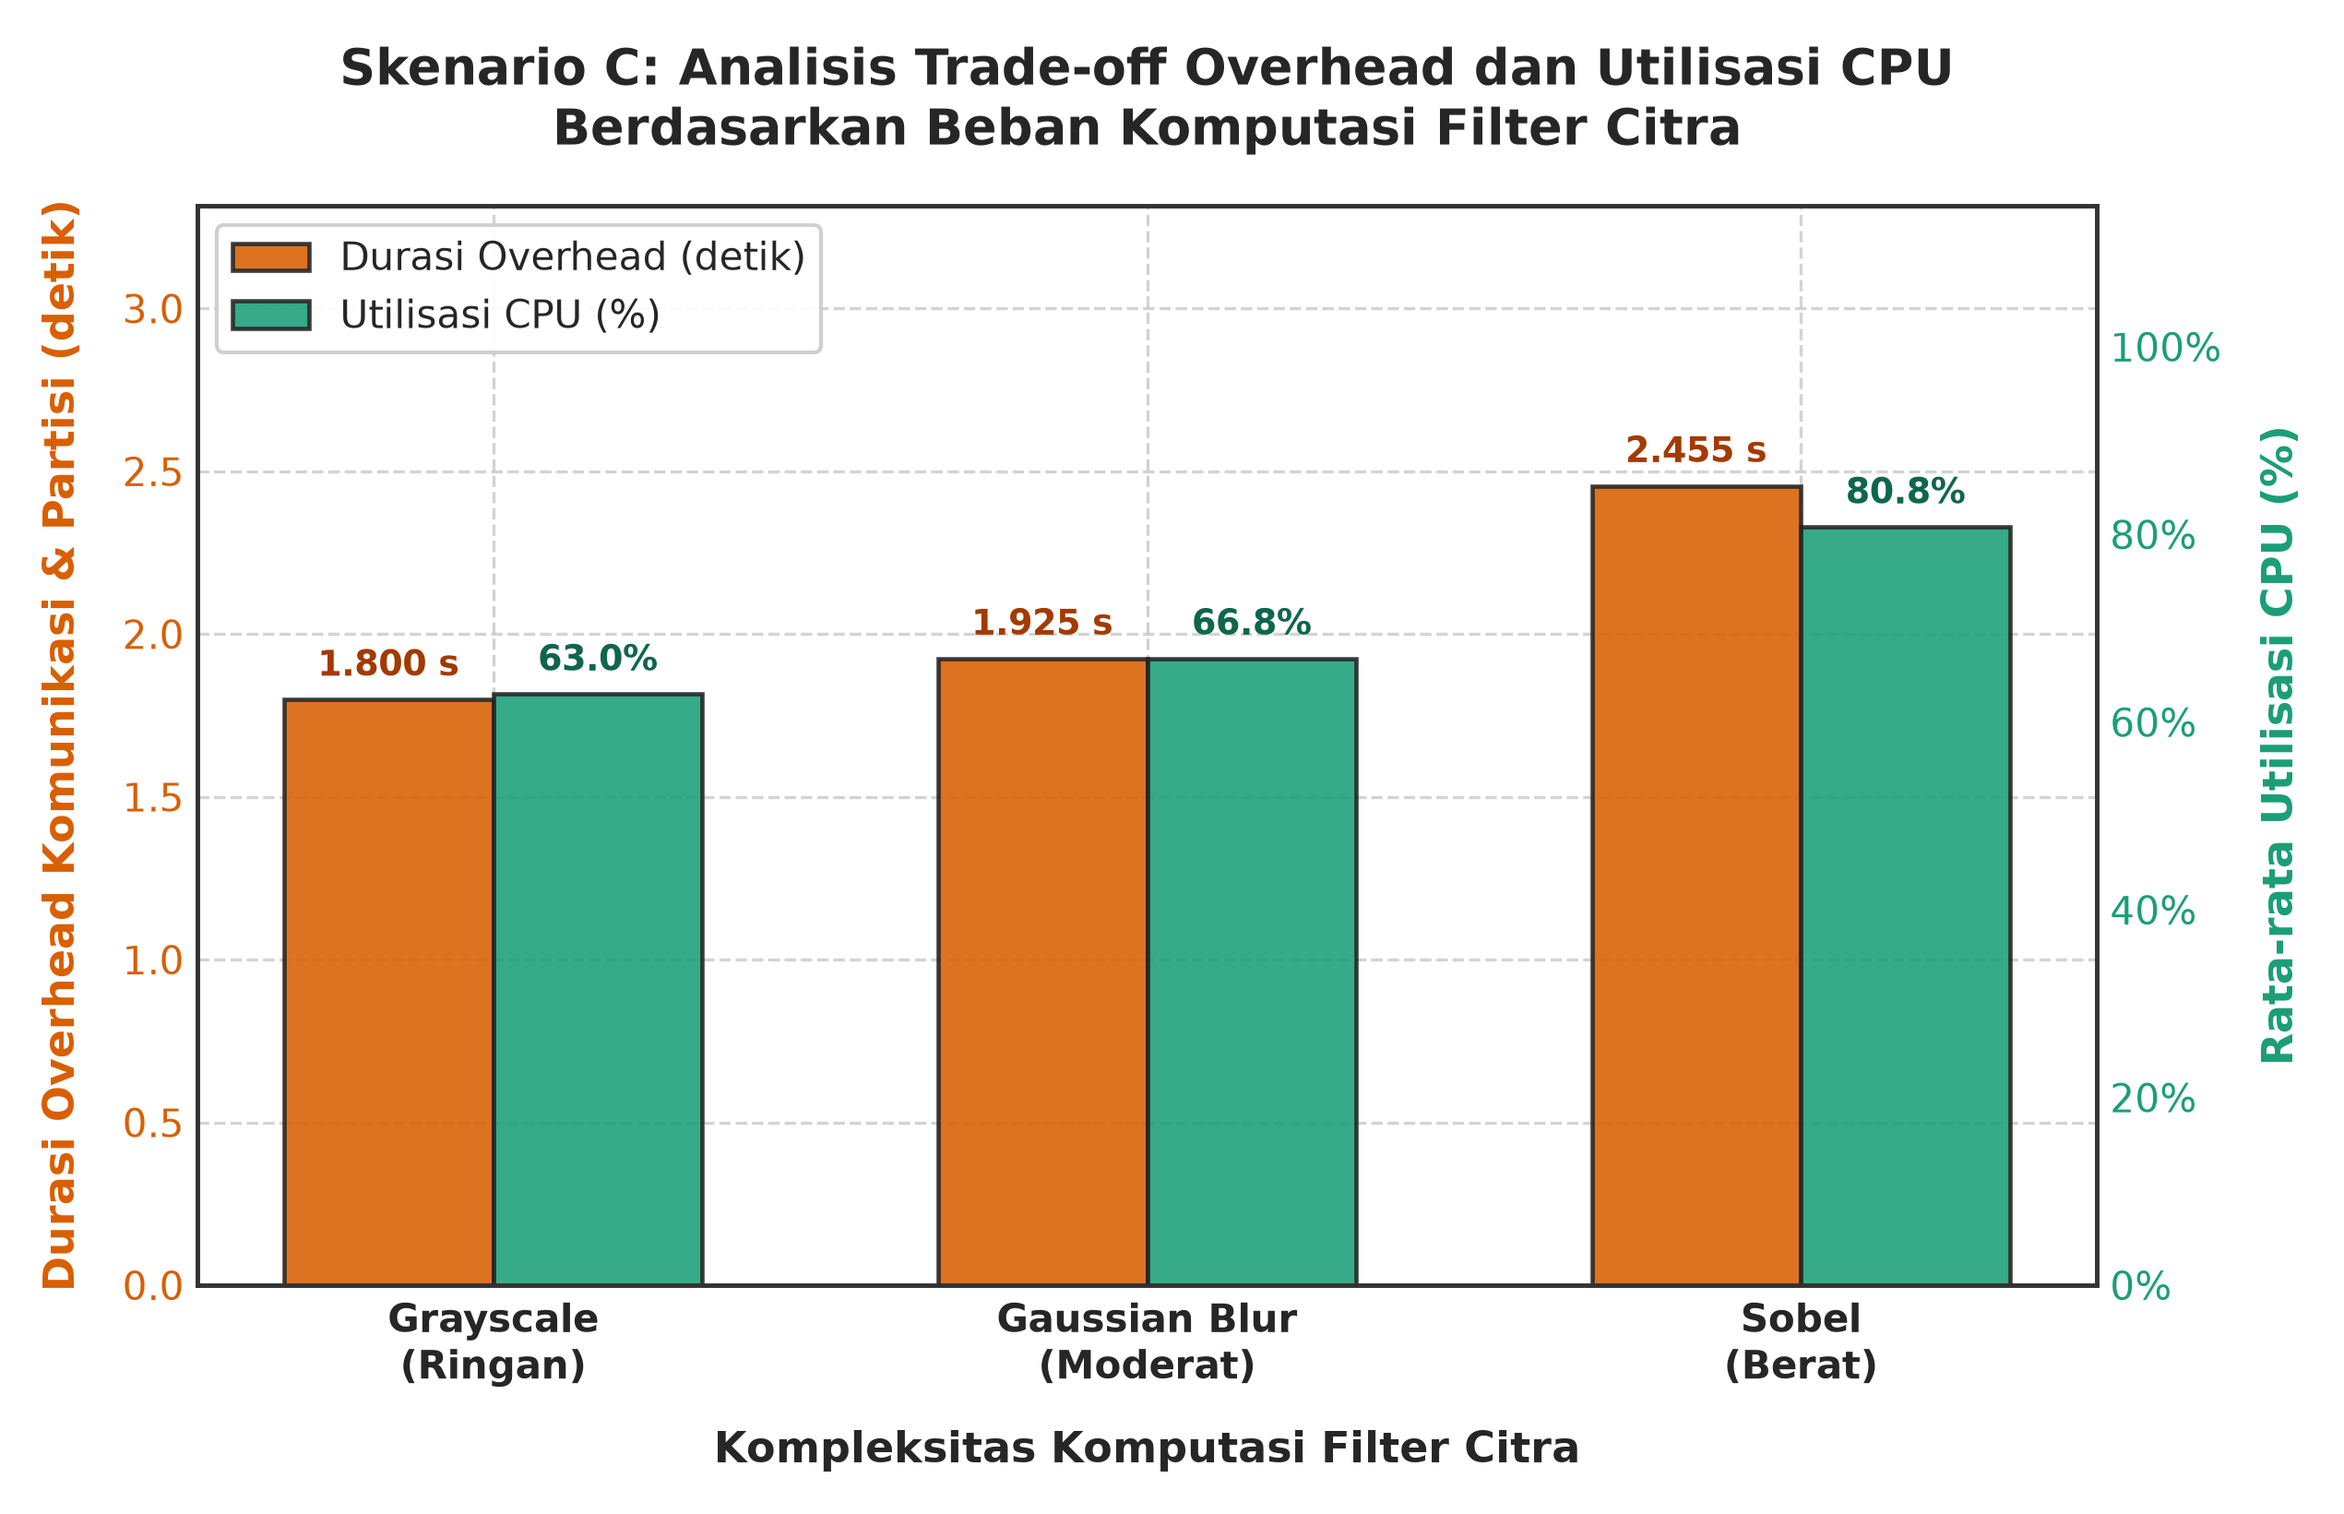
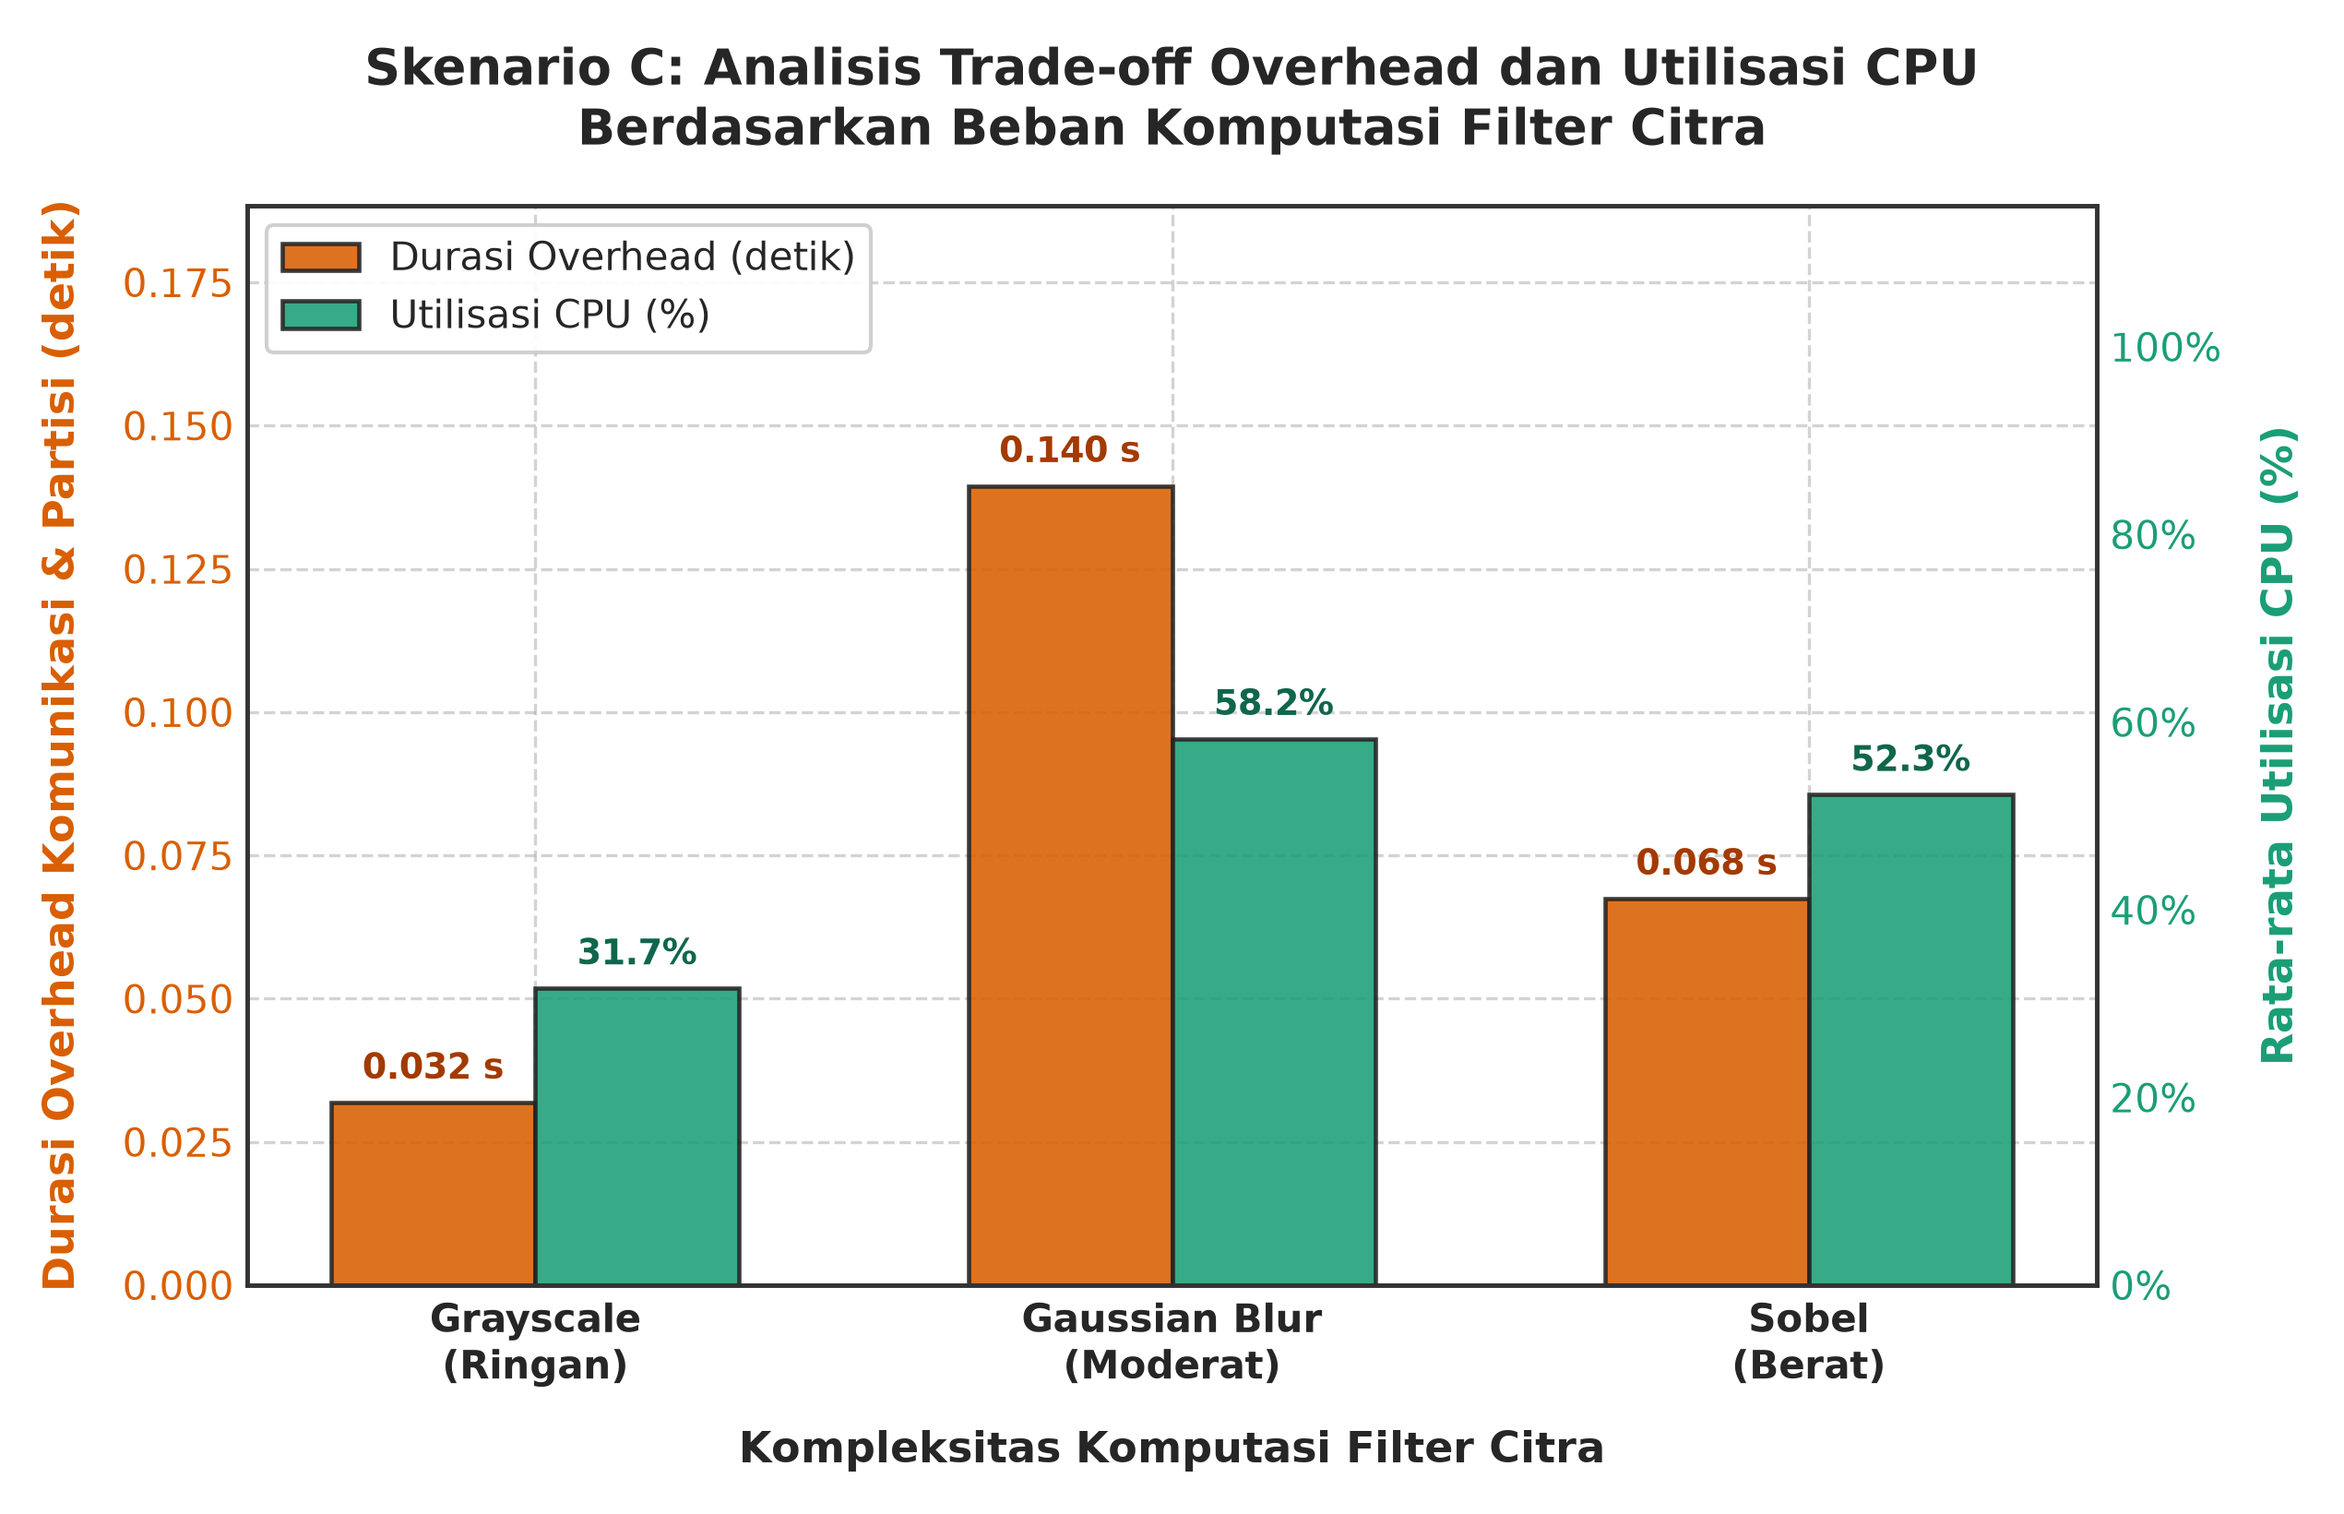
feat(benchmark): optimasi pre-warmed pool dan pembaruan kurva Amdahl Skenario B

diff --git a/run_benchmark.py b/run_benchmark.py
@@ -10,6 +10,7 @@ import os
 import sys
 import time
 import argparse
+import multiprocessing
 import cv2
 import numpy as np
 import pandas as pd
@@ -87,12 +88,13 @@ def run_single_experiment(
     filter_info: dict,
     p_workers: int,
     t_serial_cached: float = None,
-    res_serial_cached: np.ndarray = None
+    res_serial_cached: np.ndarray = None,
+    existing_pool: multiprocessing.Pool = None
 ) -> dict:
     """
     Menjalankan 1 perlakuan pengujian eksperimen terkontrol:
     1. Mengukur Serial Baseline (jika belum ada di cache)
-    2. Menjalankan Paralel dengan pemantauan CPU latar belakang
+    2. Menjalankan Paralel dengan pemantauan CPU latar belakang (mendukung pre-warmed pool)
     3. Memvalidasi keidentikan bit-per-bit hasil
     4. Menghitung metrik performa (Speedup, Efisiensi, Overhead)
     """
@@ -135,7 +137,8 @@ def run_single_experiment(
         image=image,
         filter_func=filter_func,
         p_processes=p_workers,
-        kernel_radius=k_radius
+        kernel_radius=k_radius,
+        existing_pool=existing_pool
     )
     cpu_stats = cpu_mon.stop()
 
@@ -189,47 +192,51 @@ def execute_full_benchmark(quick_mode: bool = False) -> pd.DataFrame:
     print(">>> MENJALANKAN SKENARIO A: PENGARUH RESOLUSI CITRA (P = 4 Inti Pekerja)")
     print("-"*80)
 
-    for res in resolutions_a:
-        img_path = dataset_paths[res]
-        print(f"\n[+] Memuat citra resolusi {res}x{res} piksel dari disk...")
-        img_rgb = load_image_rgb(img_path)
+    # Inisialisasi pool 4 worker sekali di awal (warm pool)
+    with multiprocessing.Pool(processes=4) as pool_4:
+        _ = pool_4.map(abs, [1, 2, 3, 4])  # Warmup worker
+        for res in resolutions_a:
+            img_path = dataset_paths[res]
+            print(f"\n[+] Memuat citra resolusi {res}x{res} piksel dari disk...")
+            img_rgb = load_image_rgb(img_path)
 
-        for f_info in FILTERS_CONFIG:
-            f_name = f_info["name"]
-            print(f"    -> Menguji Filter: {f_name:<14} | Resolusi: {res}x{res} | P = 4...", end=" ", flush=True)
+            for f_info in FILTERS_CONFIG:
+                f_name = f_info["name"]
+                print(f"    -> Menguji Filter: {f_name:<14} | Resolusi: {res}x{res} | P = 4...", end=" ", flush=True)
 
-            cache_key = (f_name, res)
-            cached = serial_cache.get(cache_key, (None, None))
+                cache_key = (f_name, res)
+                cached = serial_cache.get(cache_key, (None, None))
 
-            res_data = run_single_experiment(
-                image=img_rgb,
-                filter_info=f_info,
-                p_workers=4,
-                t_serial_cached=cached[0],
-                res_serial_cached=cached[1]
-            )
+                res_data = run_single_experiment(
+                    image=img_rgb,
+                    filter_info=f_info,
+                    p_workers=4,
+                    t_serial_cached=cached[0],
+                    res_serial_cached=cached[1],
+                    existing_pool=pool_4
+                )
 
-            # Simpan cache serial
-            if cache_key not in serial_cache:
-                serial_cache[cache_key] = (res_data["t_serial_base"], res_data["res_serial"])
+                # Simpan cache serial
+                if cache_key not in serial_cache:
+                    serial_cache[cache_key] = (res_data["t_serial_base"], res_data["res_serial"])
 
-            records.append({
-                "scenario": "A",
-                "filter": f_name,
-                "resolution": res,
-                "p": 4,
-                "t_serial": res_data["t_serial"],
-                "t_parallel": res_data["t_parallel"],
-                "speedup": res_data["speedup"],
-                "efficiency": res_data["efficiency"],
-                "overhead": res_data["overhead"],
-                "cpu_utilization": res_data["cpu_utilization"],
-                "is_identical": res_data["is_identical"],
-                "max_diff": res_data["max_diff"]
-            })
+                records.append({
+                    "scenario": "A",
+                    "filter": f_name,
+                    "resolution": res,
+                    "p": 4,
+                    "t_serial": res_data["t_serial"],
+                    "t_parallel": res_data["t_parallel"],
+                    "speedup": res_data["speedup"],
+                    "efficiency": res_data["efficiency"],
+                    "overhead": res_data["overhead"],
+                    "cpu_utilization": res_data["cpu_utilization"],
+                    "is_identical": res_data["is_identical"],
+                    "max_diff": res_data["max_diff"]
+                })
 
-            status_str = "IDENTIK" if res_data["is_identical"] else "FAIL"
-            print(f"Selesai! Ts={res_data['t_serial']:.4f}s | Tp={res_data['t_parallel']:.4f}s | Speedup={res_data['speedup']:.2f}x | Valid: {status_str}")
+                status_str = "IDENTIK" if res_data["is_identical"] else "FAIL"
+                print(f"Selesai! Ts={res_data['t_serial']:.4f}s | Tp={res_data['t_parallel']:.4f}s | Speedup={res_data['speedup']:.2f}x | Valid: {status_str}")
 
     # ==========================================================================
     # 2. SKENARIO B: Skalabilitas Jumlah Proses Pekerja (P = 1, 2, 4, 8 pada Res 2048)
@@ -241,45 +248,80 @@ def execute_full_benchmark(quick_mode: bool = False) -> pd.DataFrame:
     img_b_path = dataset_paths[base_res_b]
     img_b_rgb = load_image_rgb(img_b_path)
 
-    for f_info in FILTERS_CONFIG:
-        f_name = f_info["name"]
-        print(f"\n[*] Filter: {f_name}")
+    for p in workers_b:
+        print(f"\n[*] Menguji Alokasi P = {p} Proses Pekerja:")
+        if p == 1:
+            for f_info in FILTERS_CONFIG:
+                f_name = f_info["name"]
+                print(f"    -> Filter: {f_name:<14} | P = 1...", end=" ", flush=True)
 
-        cache_key = (f_name, base_res_b)
-        cached = serial_cache.get(cache_key, (None, None))
+                cache_key = (f_name, base_res_b)
+                cached = serial_cache.get(cache_key, (None, None))
 
-        for p in workers_b:
-            print(f"    -> P = {p} Proses Pekerja...", end=" ", flush=True)
+                res_data = run_single_experiment(
+                    image=img_b_rgb,
+                    filter_info=f_info,
+                    p_workers=1,
+                    t_serial_cached=cached[0],
+                    res_serial_cached=cached[1]
+                )
 
-            res_data = run_single_experiment(
-                image=img_b_rgb,
-                filter_info=f_info,
-                p_workers=p,
-                t_serial_cached=cached[0],
-                res_serial_cached=cached[1]
-            )
+                if cache_key not in serial_cache:
+                    serial_cache[cache_key] = (res_data["t_serial_base"], res_data["res_serial"])
+                    cached = serial_cache[cache_key]
 
-            if cache_key not in serial_cache:
-                serial_cache[cache_key] = (res_data["t_serial_base"], res_data["res_serial"])
-                cached = serial_cache[cache_key]
+                records.append({
+                    "scenario": "B",
+                    "filter": f_name,
+                    "resolution": base_res_b,
+                    "p": 1,
+                    "t_serial": res_data["t_serial"],
+                    "t_parallel": res_data["t_parallel"],
+                    "speedup": res_data["speedup"],
+                    "efficiency": res_data["efficiency"],
+                    "overhead": res_data["overhead"],
+                    "cpu_utilization": res_data["cpu_utilization"],
+                    "is_identical": res_data["is_identical"],
+                    "max_diff": res_data["max_diff"]
+                })
 
-            records.append({
-                "scenario": "B",
-                "filter": f_name,
-                "resolution": base_res_b,
-                "p": p,
-                "t_serial": res_data["t_serial"],
-                "t_parallel": res_data["t_parallel"],
-                "speedup": res_data["speedup"],
-                "efficiency": res_data["efficiency"],
-                "overhead": res_data["overhead"],
-                "cpu_utilization": res_data["cpu_utilization"],
-                "is_identical": res_data["is_identical"],
-                "max_diff": res_data["max_diff"]
-            })
+                print(f"Selesai! Tp={res_data['t_parallel']:.4f}s | Speedup={res_data['speedup']:.2f}x | Valid: IDENTIK")
+        else:
+            with multiprocessing.Pool(processes=p) as pool_p:
+                _ = pool_p.map(abs, range(p))  # Warmup pool
+                for f_info in FILTERS_CONFIG:
+                    f_name = f_info["name"]
+                    print(f"    -> Filter: {f_name:<14} | P = {p}...", end=" ", flush=True)
 
-            status_str = "IDENTIK" if res_data["is_identical"] else "FAIL"
-            print(f"Selesai! Tp={res_data['t_parallel']:.4f}s | Speedup={res_data['speedup']:.2f}x | CPU={res_data['cpu_utilization']:.1f}% | Valid: {status_str}")
+                    cache_key = (f_name, base_res_b)
+                    cached = serial_cache.get(cache_key, (None, None))
+
+                    res_data = run_single_experiment(
+                        image=img_b_rgb,
+                        filter_info=f_info,
+                        p_workers=p,
+                        t_serial_cached=cached[0],
+                        res_serial_cached=cached[1],
+                        existing_pool=pool_p
+                    )
+
+                    records.append({
+                        "scenario": "B",
+                        "filter": f_name,
+                        "resolution": base_res_b,
+                        "p": p,
+                        "t_serial": res_data["t_serial"],
+                        "t_parallel": res_data["t_parallel"],
+                        "speedup": res_data["speedup"],
+                        "efficiency": res_data["efficiency"],
+                        "overhead": res_data["overhead"],
+                        "cpu_utilization": res_data["cpu_utilization"],
+                        "is_identical": res_data["is_identical"],
+                        "max_diff": res_data["max_diff"]
+                    })
+
+                    status_str = "IDENTIK" if res_data["is_identical"] else "FAIL"
+                    print(f"Selesai! Tp={res_data['t_parallel']:.4f}s | Speedup={res_data['speedup']:.2f}x | CPU={res_data['cpu_utilization']:.1f}% | Valid: {status_str}")
 
     # ==========================================================================
     # 3. SKENARIO C: Analisis Kompleksitas & Overhead (P = 4, Res 2048)
@@ -304,8 +346,17 @@ def execute_full_benchmark(quick_mode: bool = False) -> pd.DataFrame:
 def save_and_visualize(df: pd.DataFrame, output_csv: str = "results/benchmark_results.csv"):
     """Menyimpan hasil ke CSV dan memicu pembuatan grafik ilmiah 300 DPI."""
     os.makedirs(os.path.dirname(os.path.abspath(output_csv)), exist_ok=True)
-    df.to_csv(output_csv, index=False)
-    print(f"\n[+] Seluruh data benchmark berhasil disimpan ke: {os.path.abspath(output_csv)}")
+    target_csv = output_csv
+
+    try:
+        df.to_csv(target_csv, index=False)
+        print(f"\n[+] Seluruh data benchmark berhasil disimpan ke: {os.path.abspath(target_csv)}")
+    except PermissionError:
+        # Jika file sedang dibuka oleh Microsoft Excel
+        target_csv = os.path.join(os.path.dirname(os.path.abspath(output_csv)), "benchmark_results_latest.csv")
+        print(f"\n[!] Perhatian: Berkas '{output_csv}' sedang dibuka oleh aplikasi lain (seperti Microsoft Excel).")
+        print(f"[*] Data benchmark dialihkan dan disimpan ke: {os.path.abspath(target_csv)}")
+        df.to_csv(target_csv, index=False)
 
     # Visualisasi
     plots_dir = os.path.join("results", "plots")
@@ -313,16 +364,16 @@ def save_and_visualize(df: pd.DataFrame, output_csv: str = "results/benchmark_re
 
     print("\n[*] Menghasilkan grafik standar publikasi 300 DPI...")
     plot_scenario_a(
-        csv_path=output_csv,
+        csv_path=target_csv,
         output_path=os.path.join(plots_dir, "skenario_a_resolusi.png")
     )
     plot_scenario_b(
-        csv_path=output_csv,
+        csv_path=target_csv,
         f_fraction=0.90,
         output_path=os.path.join(plots_dir, "skenario_b_amdahl.png")
     )
     plot_scenario_c(
-        csv_path=output_csv,
+        csv_path=target_csv,
         output_path=os.path.join(plots_dir, "skenario_c_kompleksitas.png")
     )
 

diff --git a/src/visualizer.py b/src/visualizer.py
@@ -250,6 +250,16 @@ def plot_scenario_a(csv_path: str, output_path: str = "results/plots/skenario_a_
         label="Batas Maksimum Ideal ($S = P = 4$)"
     )
 
+    # Garis acuan titik impas serial S = 1.0
+    ax.axhline(
+        y=1.0,
+        color="#d62728",
+        linestyle="--",
+        linewidth=1.3,
+        alpha=0.75,
+        label="Titik Impas Serial ($S = 1.0$)"
+    )
+
     ax.set_xticks(x_indices)
     ax.set_xticklabels(x_labels, fontweight="bold")
     ax.set_xlabel("Resolusi Matriks Citra Masukan (Piksel)", labelpad=10)
